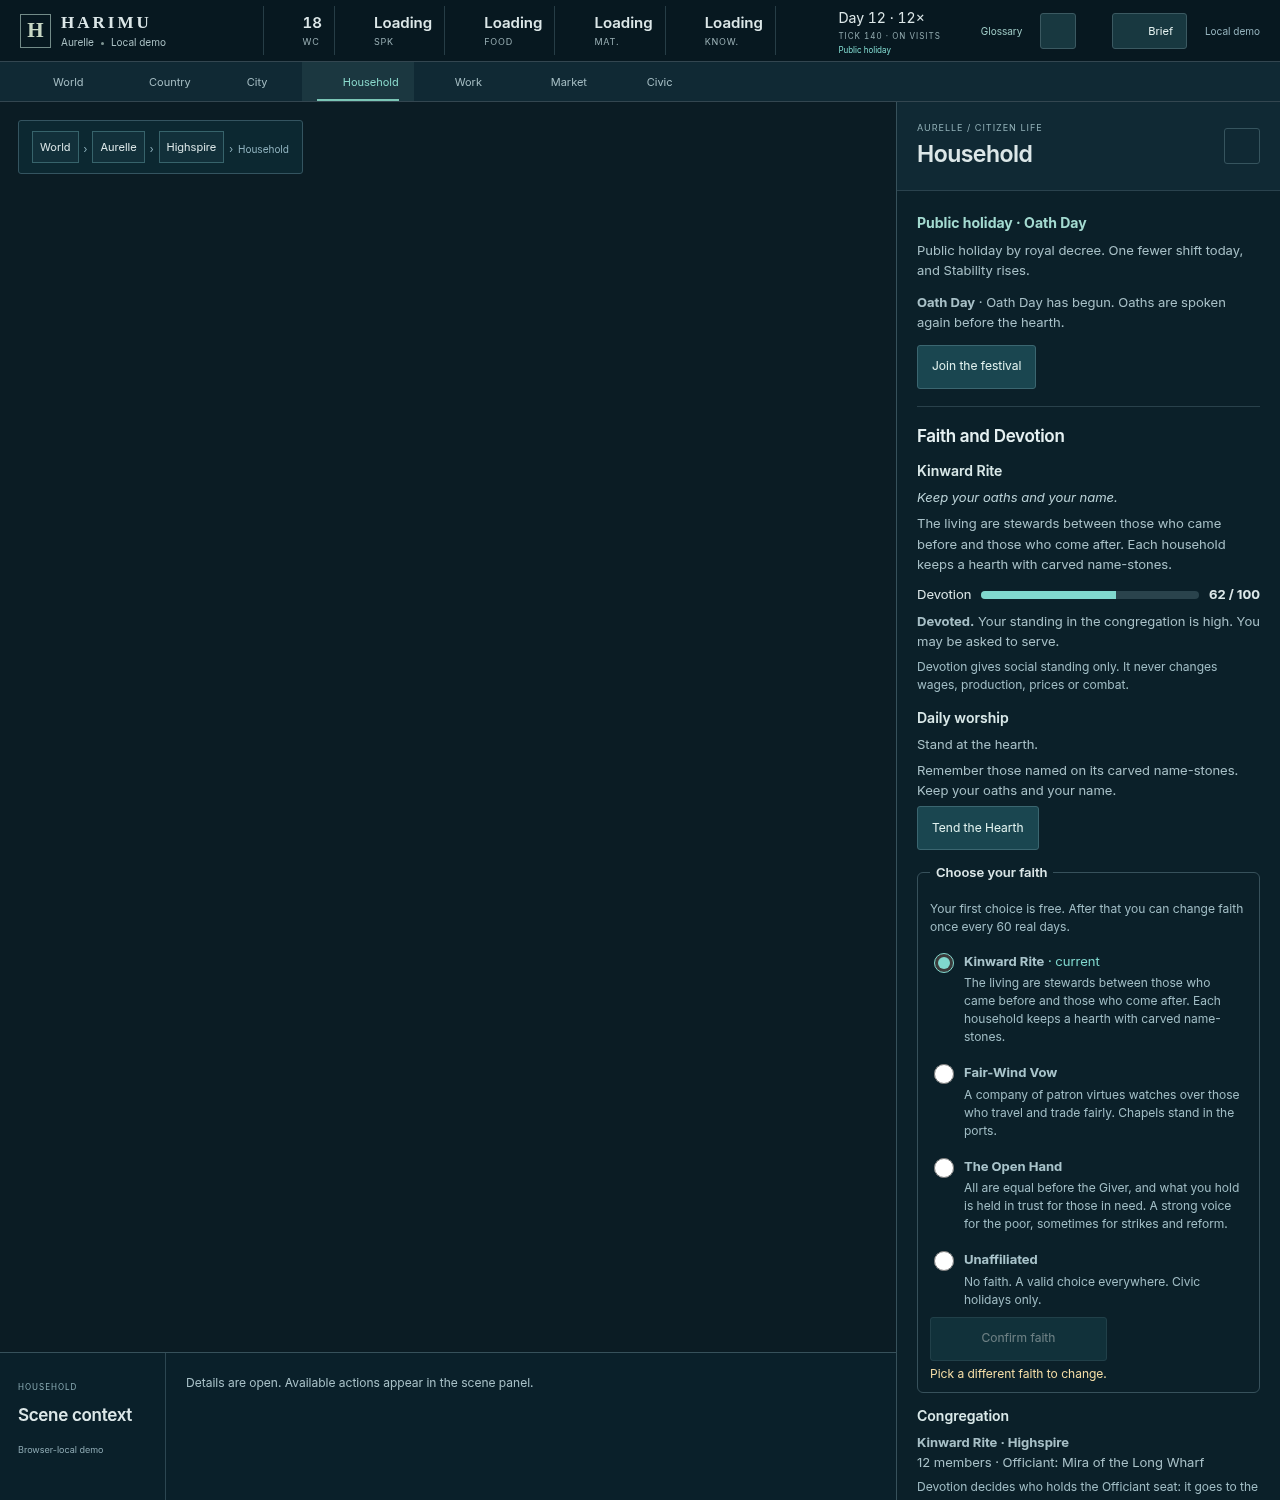
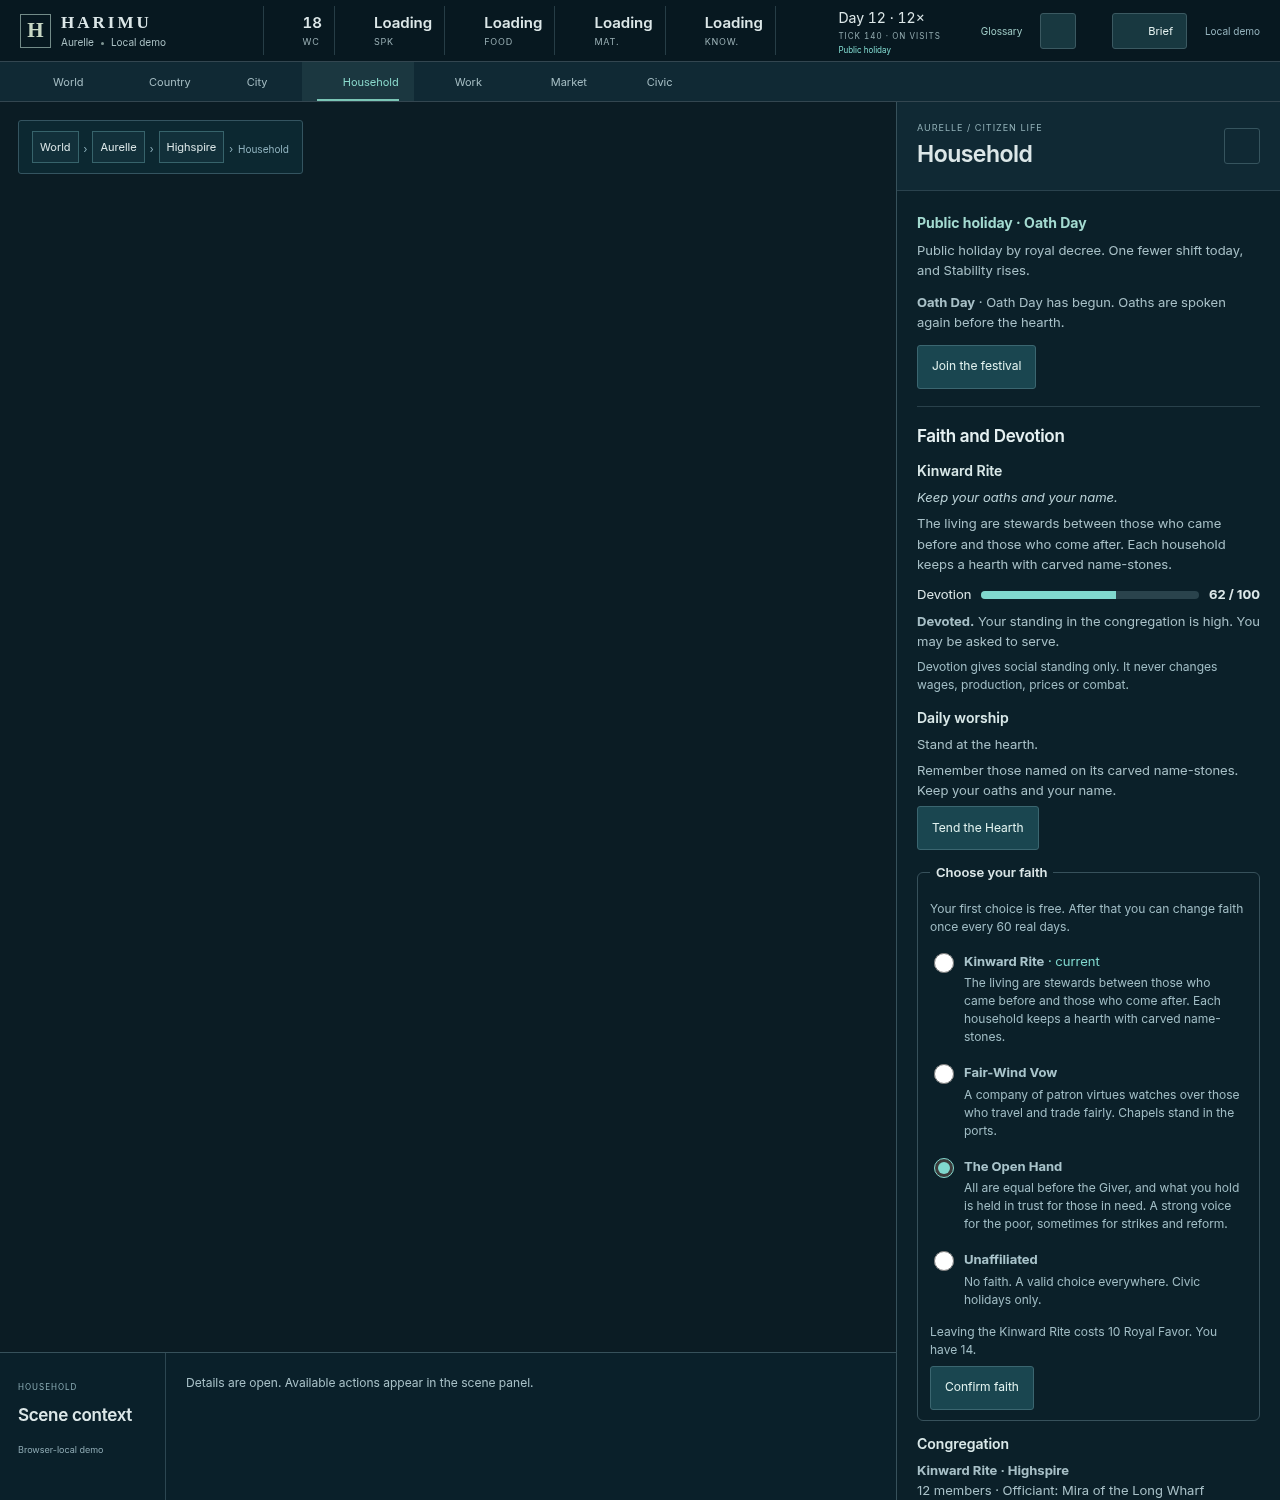
#280: show the Royal Favor cost of leaving the Kinward Rite before Confirm (#311); fixtures follow the API

Changed region(s): [[0.7188, 0.8893, 0.9688, 1.0], [0.7188, 0.7667, 0.75, 0.7973], [0.7188, 0.6133, 0.75, 0.644]]

diff --git a/app/faith-panel.tsx b/app/faith-panel.tsx
@@ -84,13 +84,16 @@ export function HolidayBanner({ faith, busy, onJoin }: { faith: FaithState | nul
   </section>;
 }
 
-export function FaithPanel({ api }: { api: FaithApi }) {
+/** `initialPick` only seeds the radio (used by tests and the layout check to render the "picked away" state). */
+export function FaithPanel({ api, initialPick = null }: { api: FaithApi; initialPick?: string | null }) {
   const { faith, congregations, busy, message, error } = api;
-  const [picked, setPicked] = useState<string | null>(null);
+  const [picked, setPicked] = useState<string | null>(initialPick);
   if (!faith) return null;
   const current = faith.faith.id, choice = picked ?? current, korund = faith.nationId === 'korund';
   const cooldown = faith.changeBlockedReason;
-  const leaving = faith.leaveBlockedReason && choice !== current ? faith.leaveBlockedReason : null;
+  const leaves = choice !== current; // picking away from the current faith
+  const leaving = leaves ? faith.leaveBlockedReason : null;
+  const leaveCost = leaves && faith.leaveCost != null ? faith.leaveCost : null; // #289/#311: Royal Favor cost of leaving the Kinward Rite in Aurelle
   const changeReason = busy ? 'Saving…' : cooldown ?? (choice === current ? 'Pick a different faith to change.' : leaving);
   const copy = copyFor(current), worship = faith.worship;
   const devotion = faith.devotion;
@@ -122,6 +125,7 @@ export function FaithPanel({ api }: { api: FaithApi }) {
       {faith.options.public.map(option => { const c = copyFor(option.id); return <label key={option.id}>
         <input type="radio" name="faith-choice" value={option.id} checked={choice === option.id} onChange={() => setPicked(option.id)} />
         <span><strong>{c.name}</strong>{option.id === current && <em> · current</em>}<small>{c.description}</small></span></label>; })}
+      {leaveCost !== null && <p className="faith-note faith-leave-cost" role="status">Leaving the Kinward Rite costs {leaveCost} Royal Favor.{faith.royalFavor != null && <> You have {faith.royalFavor}.</>}</p>}
       <ActionButton type="button" reason={changeReason} onClick={() => { void api.chooseFaith(choice).then(() => setPicked(null)); }}>Confirm faith</ActionButton>
       {cooldown && faith.changeAvailableAt && <p className="faith-note">Faith is locked until {isoDate(faith.changeAvailableAt)}.</p>}
     </fieldset>}
